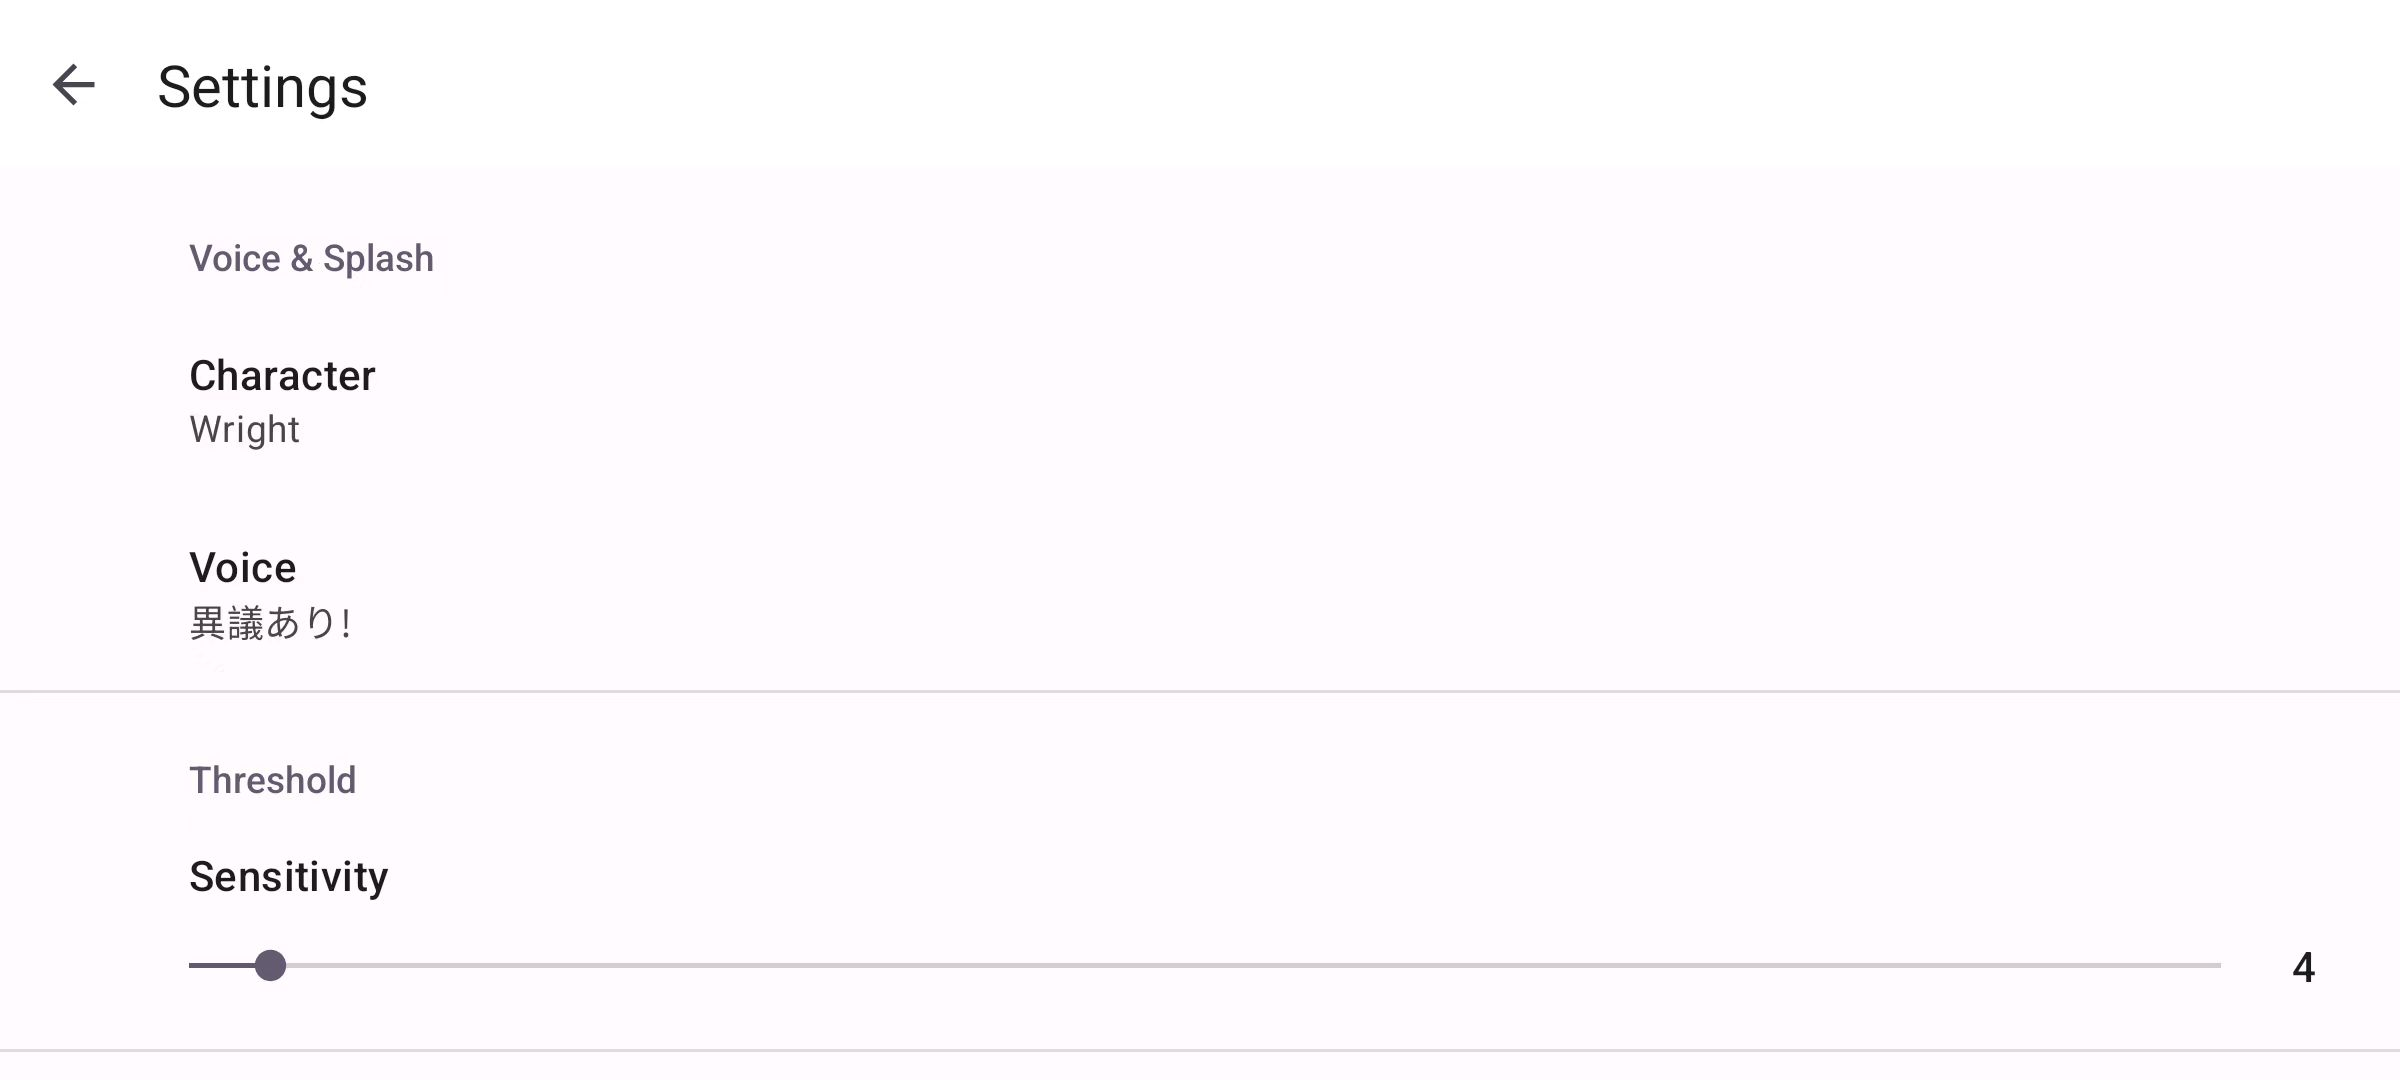
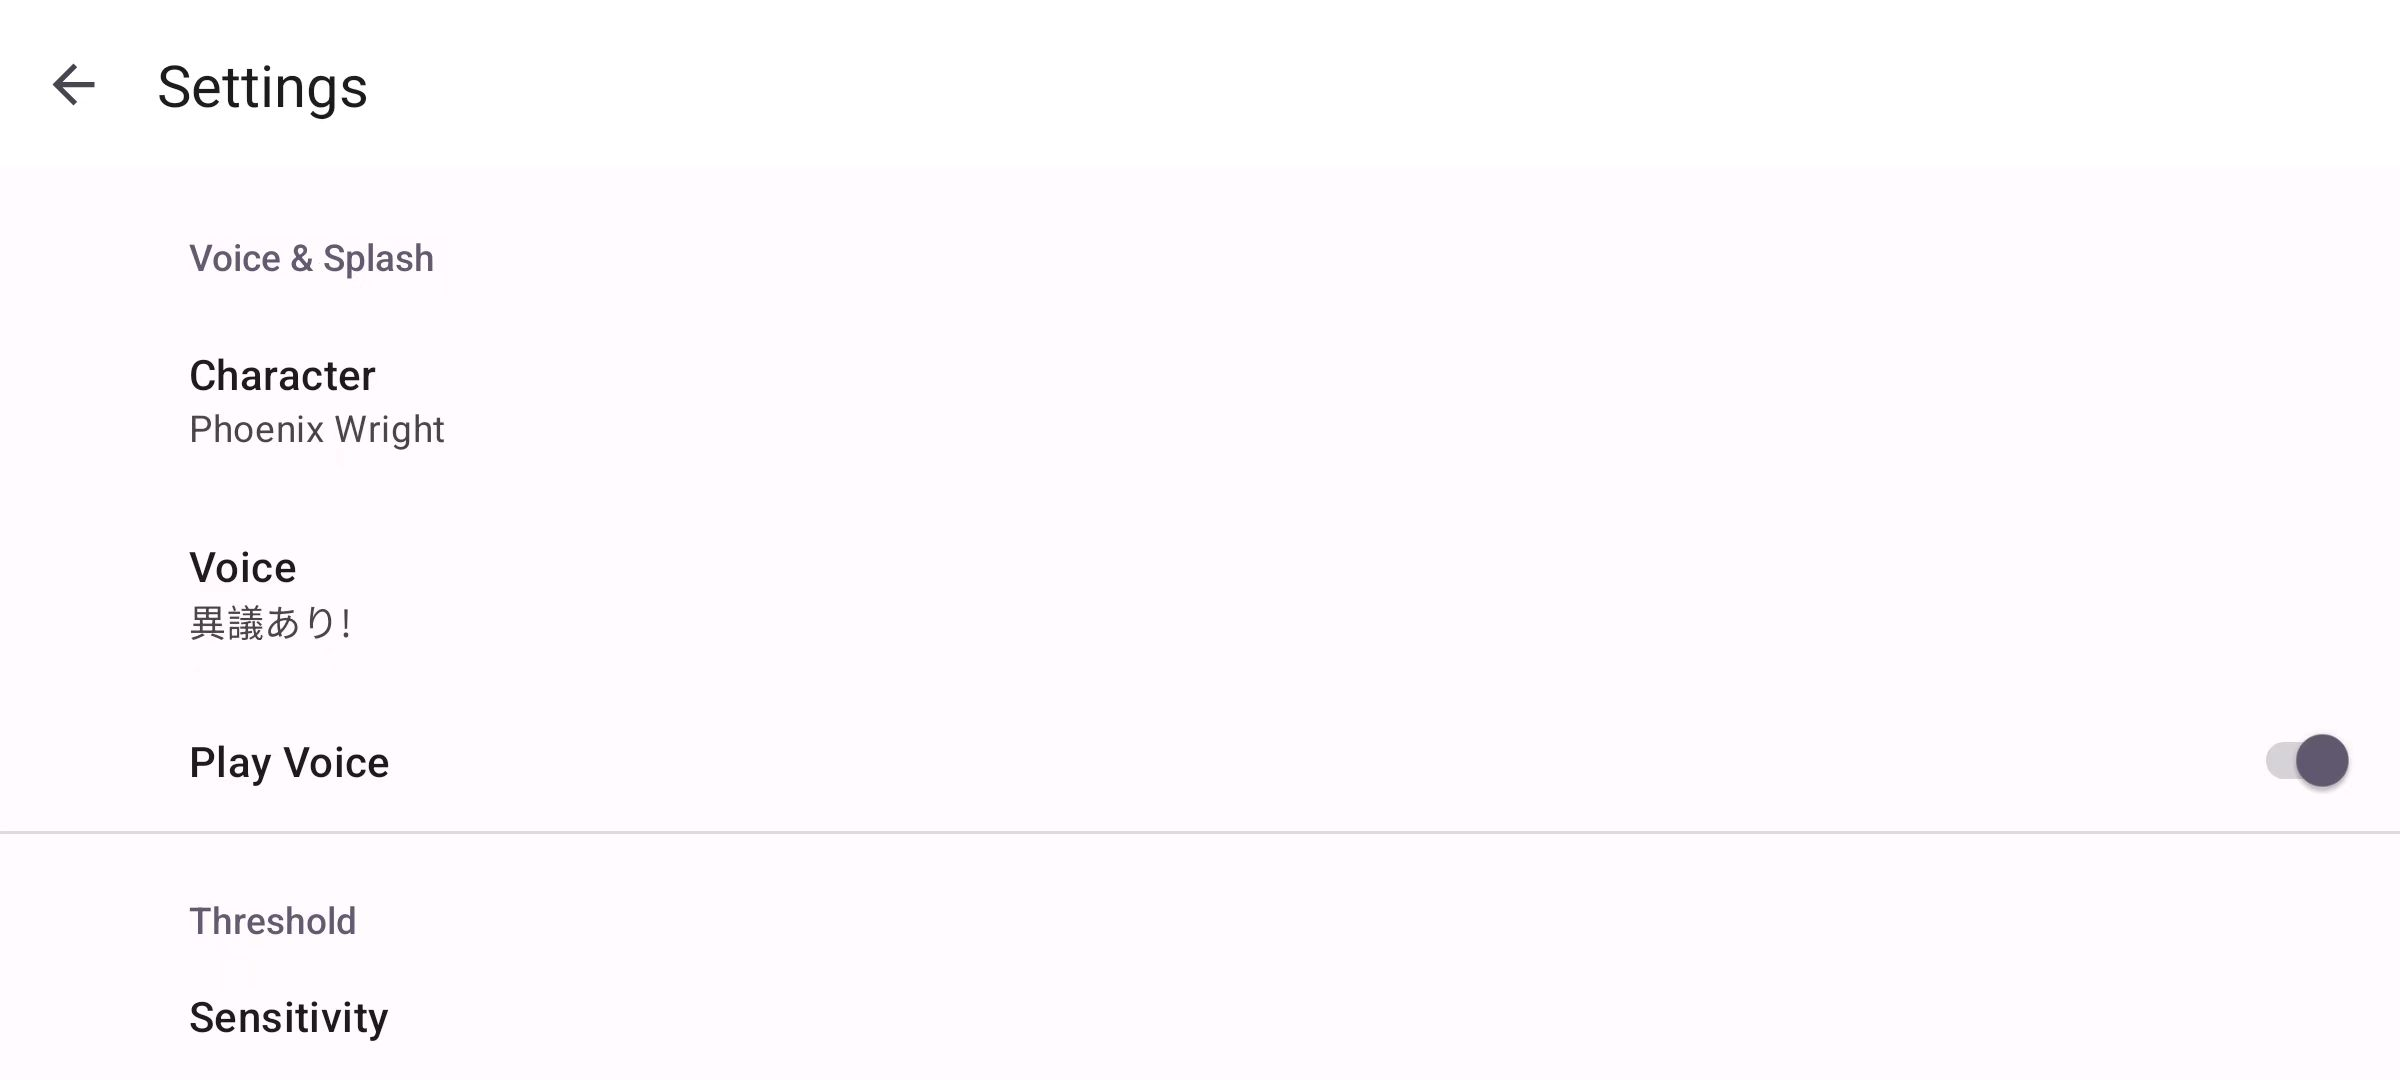
update README.md & Screenshot

diff --git a/README.md b/README.md
@@ -38,5 +38,5 @@ Place the phone flat on the table and knock the desktop, the App will automatica
 - ~Chinese~ (No longer supported, no complete voice found)
 
 ## TODO
-- Add more voices
-- Add music toggle
+[X] Add more voices 
+[X] Add voice toggle
